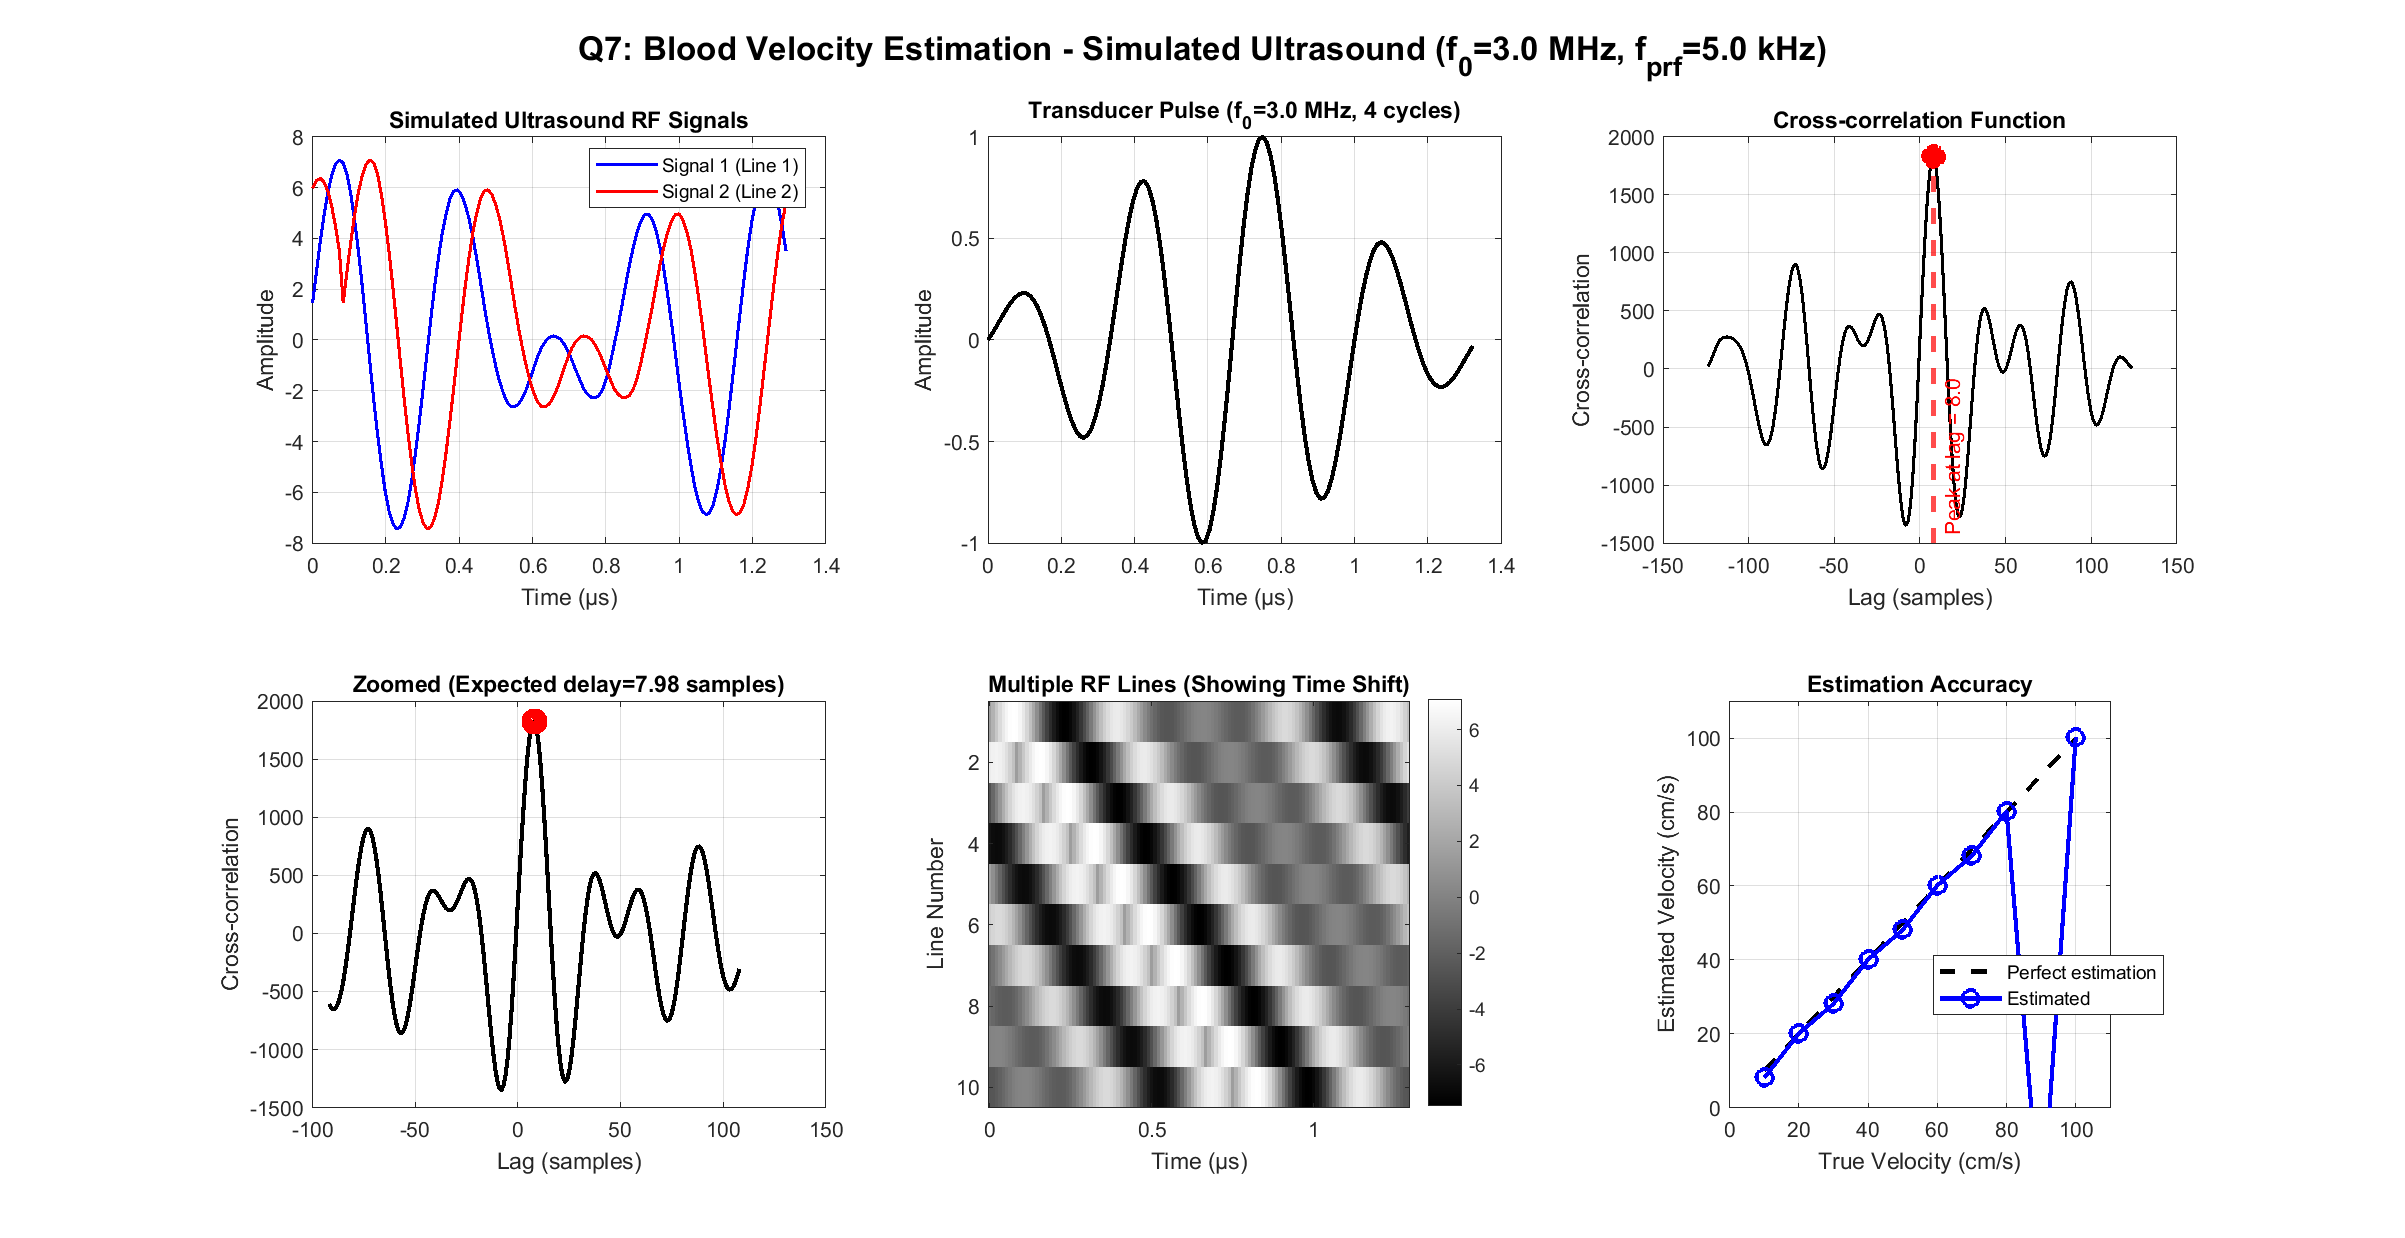
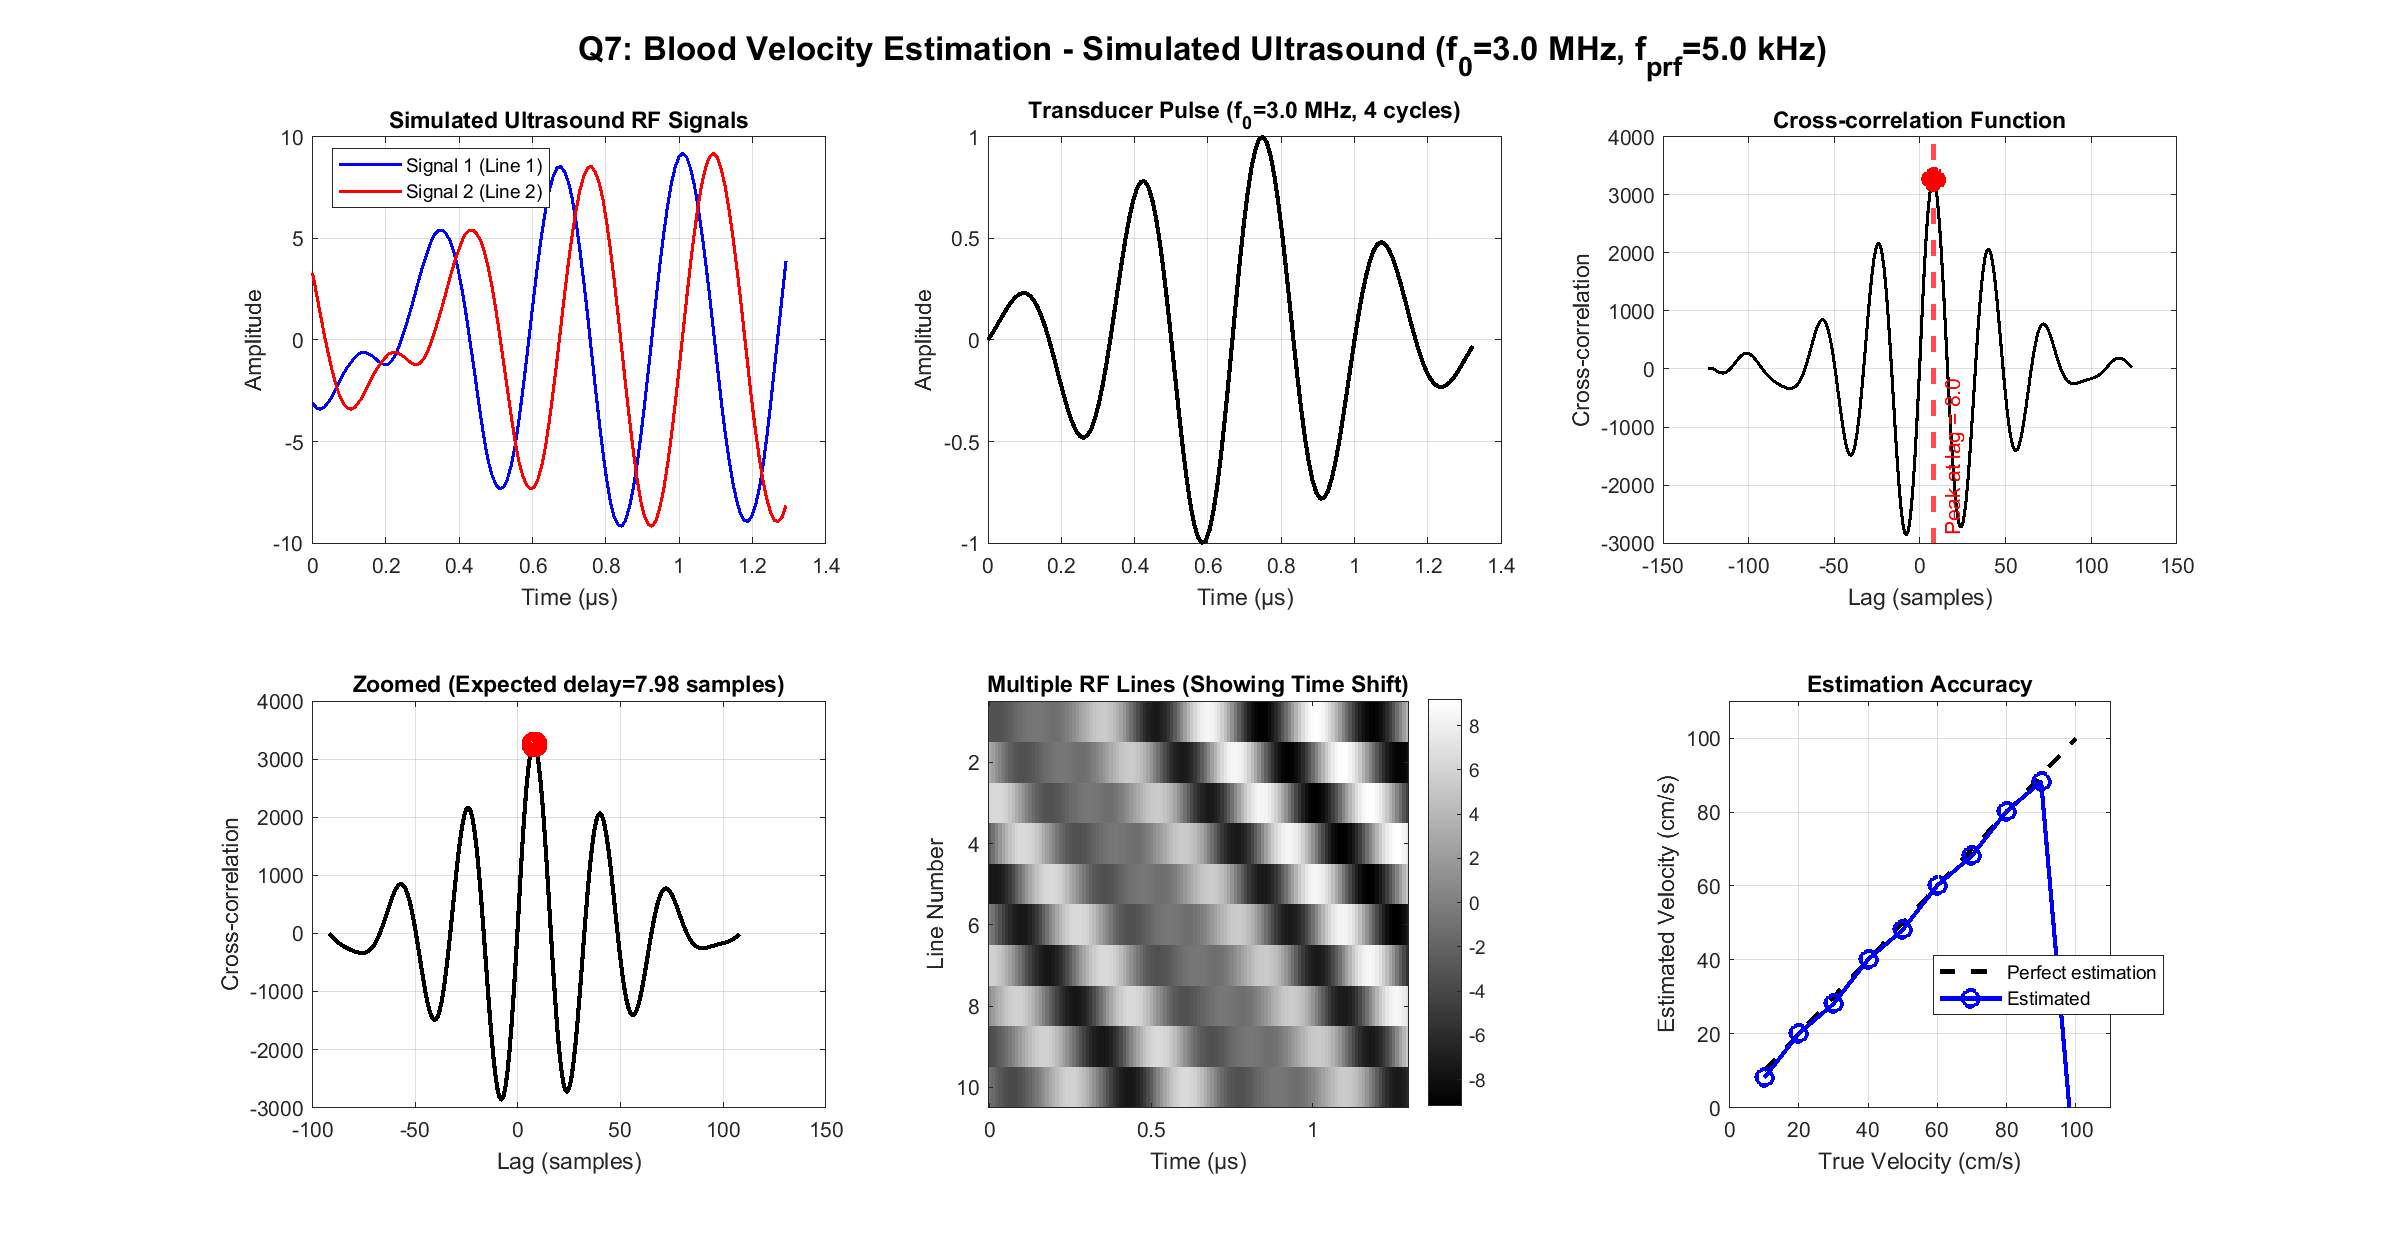
minor fix to Q7

diff --git a/utilis/simulate_ultrasound_data.m b/utilis/simulate_ultrasound_data.m
@@ -1,33 +1,15 @@
 function [rf_data, params] = simulate_ultrasound_data(vz, Ntrials)
 % SIMULATE_ULTRASOUND_DATA Generate simulated ultrasound RF data with motion
-%
 % Syntax:
 %   [rf_data, params] = simulate_ultrasound_data(vz, Ntrials)
-%
 % Inputs:
 %   vz       - Blood velocity in m/s
 %   Ntrials  - Number of lines to generate
-%
 % Outputs:
 %   rf_data  - Simulated RF data (n_samples x Ntrials)
 %   params   - Structure containing all simulation parameters
-%
-% Description:
-%   Generates realistic ultrasound RF data by:
-%   1. Creating scattering signal using Gaussian random numbers
-%   2. Convolving with transducer pulse-echo impulse response
-%   3. Time-shifting signal using circshift according to velocity and PRF
-%
-% Fixed Parameters (Medical Ultrasound):
-%   f0   = 3.0 MHz  (Center frequency)
-%   M    = 4        (Periods in pulse)
-%   fs   = 96 MHz   (Sampling frequency)
-%   c    = 1540 m/s (Speed of sound)
-%   fprf = 5 kHz    (Pulse repetition frequency)
-%   lg   = 1 mm     (Range gate length)
-%   Nc   = 8        (Lines for one estimate)
 
-    % Fixed ultrasound parameters
+    %  parameters from the  Jørgen Arendt Jensen book
     f0 = 3.0e6;        % Center frequency (Hz)
     M = 4;             % Sine periods in pulse
     fs = 96e6;         % Sampling frequency (Hz)
@@ -36,41 +18,36 @@ function [rf_data, params] = simulate_ultrasound_data(vz, Ntrials)
     lg = 1e-3;         % Range gate length (m)
     Nc = 8;            % Lines for one estimate
     
-    % Calculate derived parameters
+    % derived parameters
     T_prf = 1 / fprf;                        % Pulse repetition period (s)
     lambda = c / f0;                         % Wavelength (m)
     
-    % Number of samples in range gate (final output)
+    % number of samples in range gate (final output)
     n_samples = round(2 * lg * fs / c);
     
-    % Generate longer signal to avoid circular wrapping
-    % Total duration: enough to contain all shifts plus safety margin
+    % generate longer signal to avoid circular wrapping
     total_duration = 2.0;  % 2 seconds total
     n_total_samples = round(total_duration * fs);
     
-    % Define window within the longer signal (centered)
-    % This is where we'll extract the final n_samples
+    % window within the longer signal (centered)
     window_start_sample = round(n_total_samples / 4);  % Start at 25% of total
     window_end_sample = window_start_sample + n_samples - 1;
-    
-    % Time vector for final output (within the window)
     t = (0:n_samples-1)' / fs;
     
-    % Create transducer pulse (Gaussian-modulated sinusoid)
+    % transducer pulse (Gaussian-modulated sinusoid)
     pulse_duration = M / f0;
     pulse_samples = round(pulse_duration * fs);
     t_pulse = (0:pulse_samples-1)' / fs;
     
-    % Gaussian envelope
-    sigma = pulse_duration / 4;
-    t_center = pulse_duration / 2;
-    envelope = exp(-((t_pulse - t_center).^2) / (2 * sigma^2));
+        % gaussian envelope
+        sigma = pulse_duration / 4;
+        t_center = pulse_duration / 2;
+        envelope = exp(-((t_pulse - t_center).^2) / (2 * sigma^2));
     
-    % Pulse-echo impulse response
-    pulse = envelope .* sin(2 * pi * f0 * t_pulse);
-    pulse = pulse / max(abs(pulse));  % Normalize
-    
-    % Calculate velocity-induced time shift per line
+        % pulse-echo impulse response
+        pulse = envelope .* sin(2 * pi * f0 * t_pulse);
+        pulse = pulse / max(abs(pulse));  % Normalize
+
     % Time shift = 2 * vz * T_prf / c
     time_shift_per_line = 2 * vz * T_prf / c;
     sample_shift_per_line = time_shift_per_line * fs;
@@ -78,21 +55,14 @@ function [rf_data, params] = simulate_ultrasound_data(vz, Ntrials)
     % Initialize output RF data
     rf_data = zeros(n_samples, Ntrials);
     
-    % Step 1: Generate base scattering signal (Gaussian random) - LONG VERSION
+    % step 1: generate base scattering signal 
     scatterers = randn(n_total_samples, 1);
-    
-    % Step 2: Convolve with pulse-echo impulse response
+    % step 2: convolve with pulse-echo impulse response
     rf_base = conv(scatterers, pulse, 'same');
-    
-    % Step 3: Generate RF data for each line using circshift
+    % step 3: generate RF data for each line using circshift
     for line_idx = 1:Ntrials
-        % Calculate shift for this line
         shift_samples = round(sample_shift_per_line * (line_idx - 1));
-        
-        % Apply circular shift on the LONG signal
         rf_shifted = circshift(rf_base, shift_samples);
-        
-        % Extract the window (from t0 to t1) to avoid edge effects
         rf_data(:, line_idx) = rf_shifted(window_start_sample : window_start_sample + n_samples - 1);
     end
     

diff --git a/assignment/Q7/Q7.m b/assignment/Q7/Q7.m
@@ -4,10 +4,6 @@
 % simulated data with known delays and velocities.
 %
 % NOTE: The actual function estimate_blood_velocity is in ../utilis/
-
-% Add utilities to path
-addpath('../../utilis');
-
 clear; close all; clc;
 
 fprintf('========================================\n');
@@ -78,7 +74,7 @@ fprintf('========================================\n\n');
 
 % Test different velocities using realistic ultrasound simulation
 % Typical range: 10-100 cm/s
-test_velocities_cms = [10, 25, 50, 75, 100];  % cm/s
+test_velocities_cms = [10, 25, 50, 75, 100,150];  % cm/s
 test_velocities = test_velocities_cms / 100;  % convert to m/s
 
 fprintf('%-20s %-20s %-20s %-15s %-15s\n', ...
